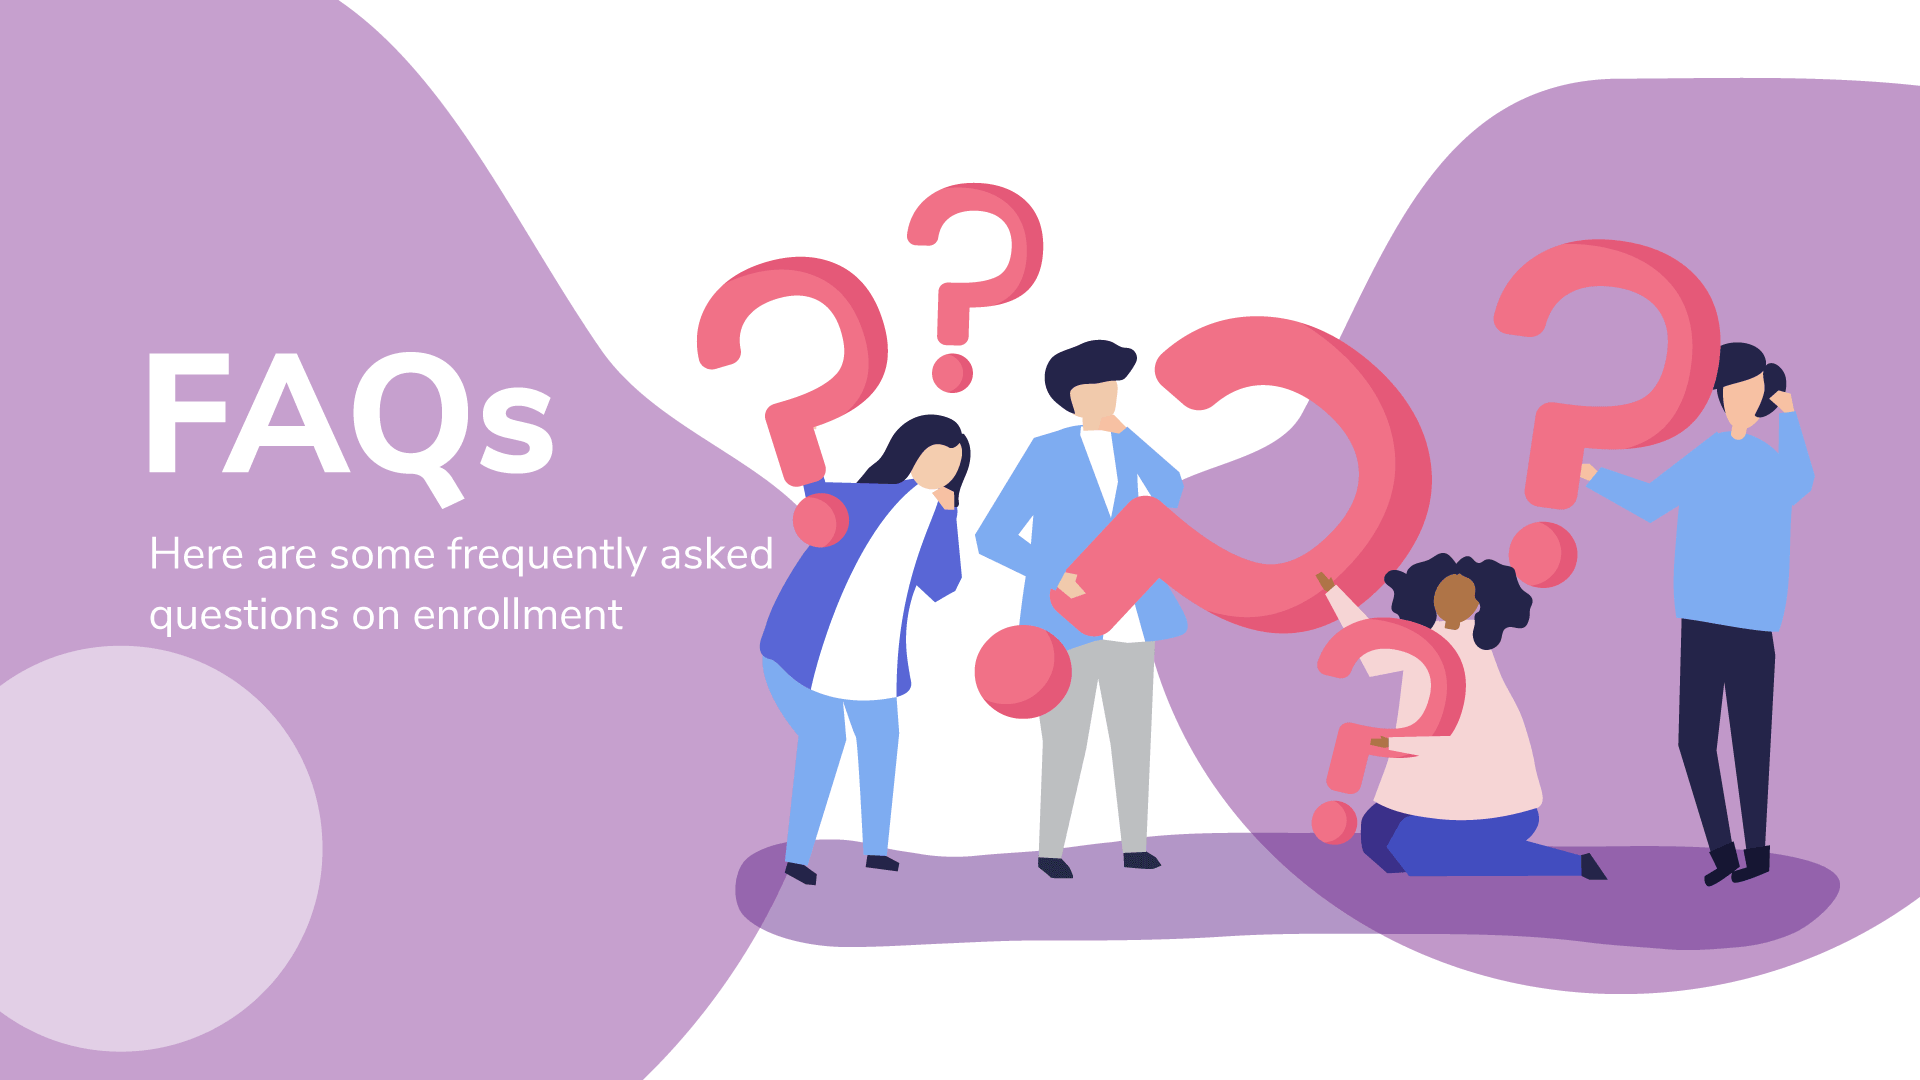
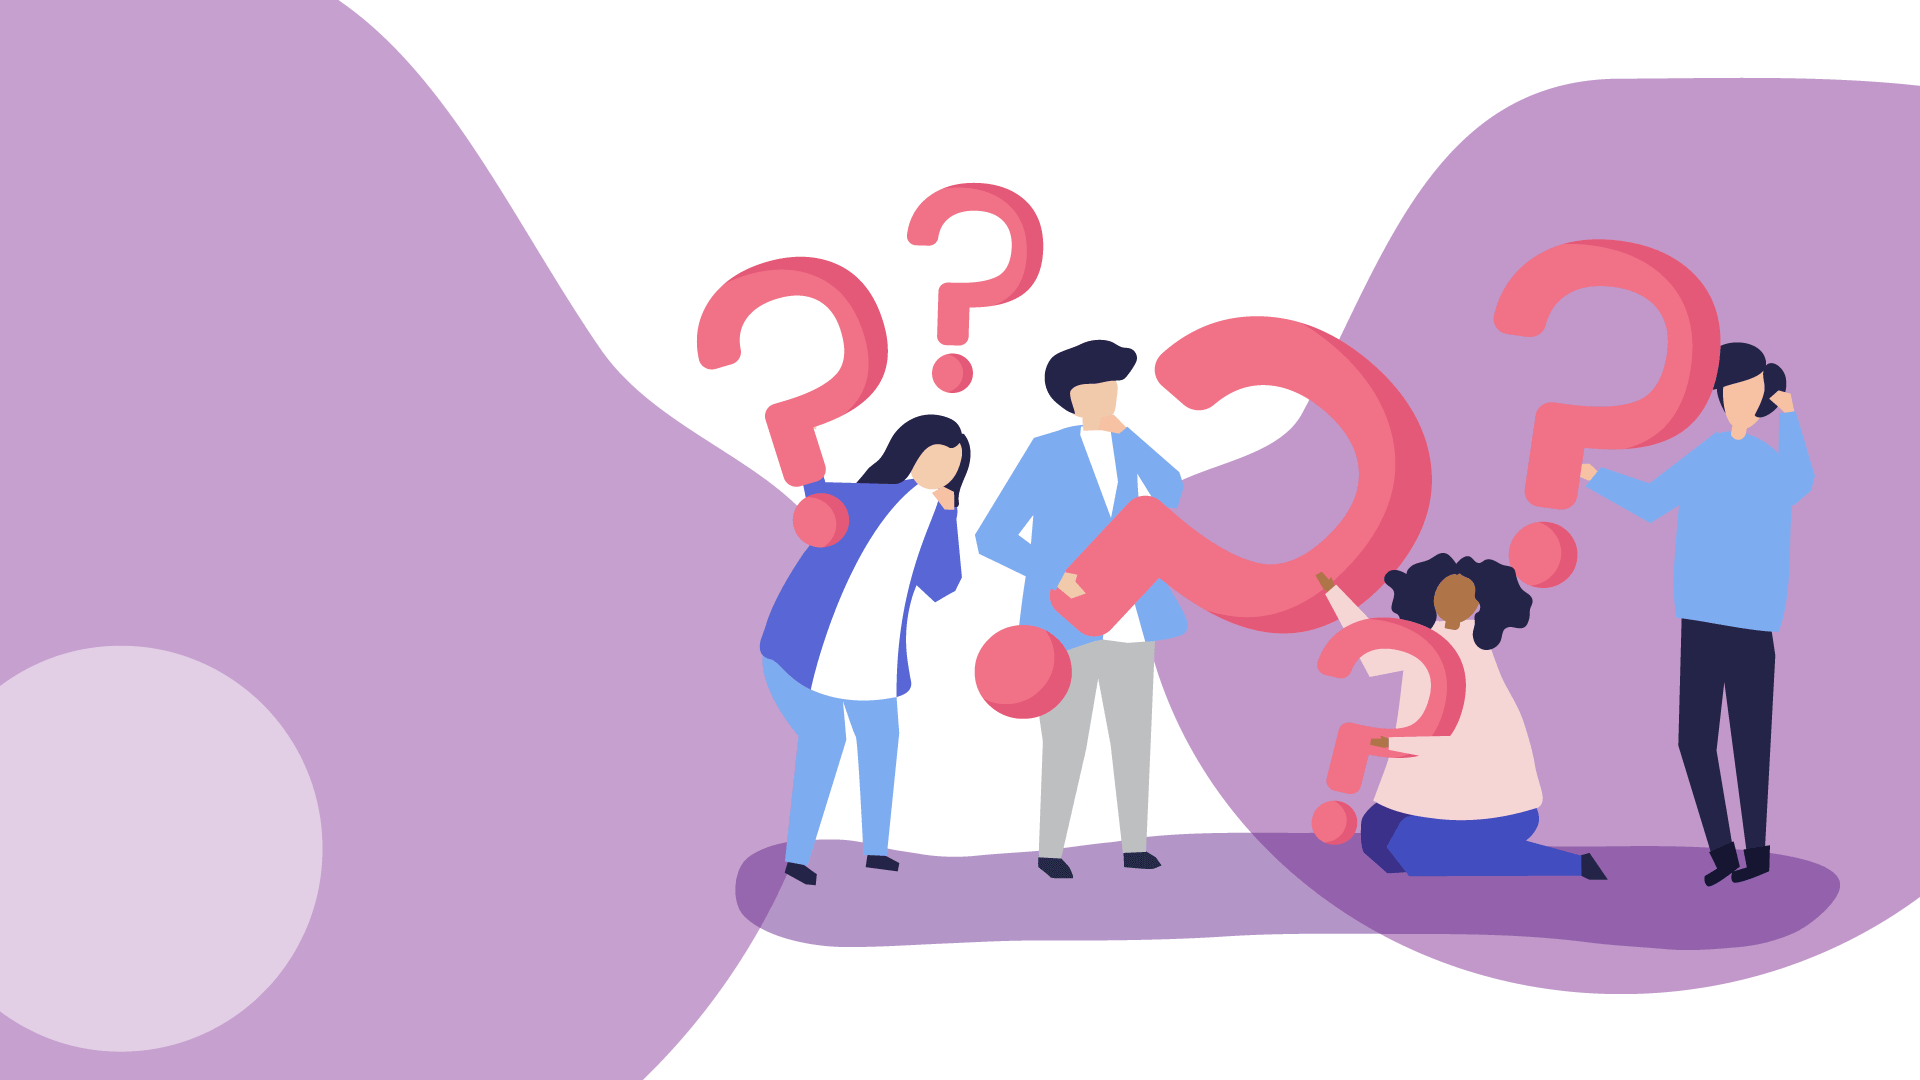
Fix Mobile responsive issue
Image with words which was take out.

Changed region(s): [[0.0625, 0.3056, 0.4062, 0.5806]]

diff --git a/assets/css/faq.css b/assets/css/faq.css
@@ -71,3 +71,8 @@
 /* h5{
     font-size: medium;
 } */
+
+.main-banner h1, h3{
+    font-weight: bold;
+    color: black;
+}

diff --git a/views/faq.php b/views/faq.php
@@ -32,7 +32,17 @@
 </head>
 <main class="faq-wrapper">
     <?php include $helper->subviewPath('navbar.php') ?>
-    <section class="main-banner container-fluid" style="background-image: linear-gradient(rgba(0, 0, 0, 0), rgba(0, 0, 0, 0)), url(<?php echo $backgroundPath ?>);">
+    <div class="main-banner container-fluid" style="background-image: linear-gradient(rgba(0, 0, 0, 0), rgba(0, 0, 0, 0)), url(<?php echo $backgroundPath ?>);">
+                <div class="container">
+                    <div class="card flex-row flex-wrap intro">
+                        <div class="card-block px-2 justify-content-center" style="float:right; padding-top:50px;">
+                            <h1>FAQ</h1>
+                            <h3>Here are some frequently asked questions on enrollment</h3>                 
+                        </div>
+                    </div>
+                    <br>
+                </div>
+            </div>
     </section>
 
     <section class="faq-content container">
